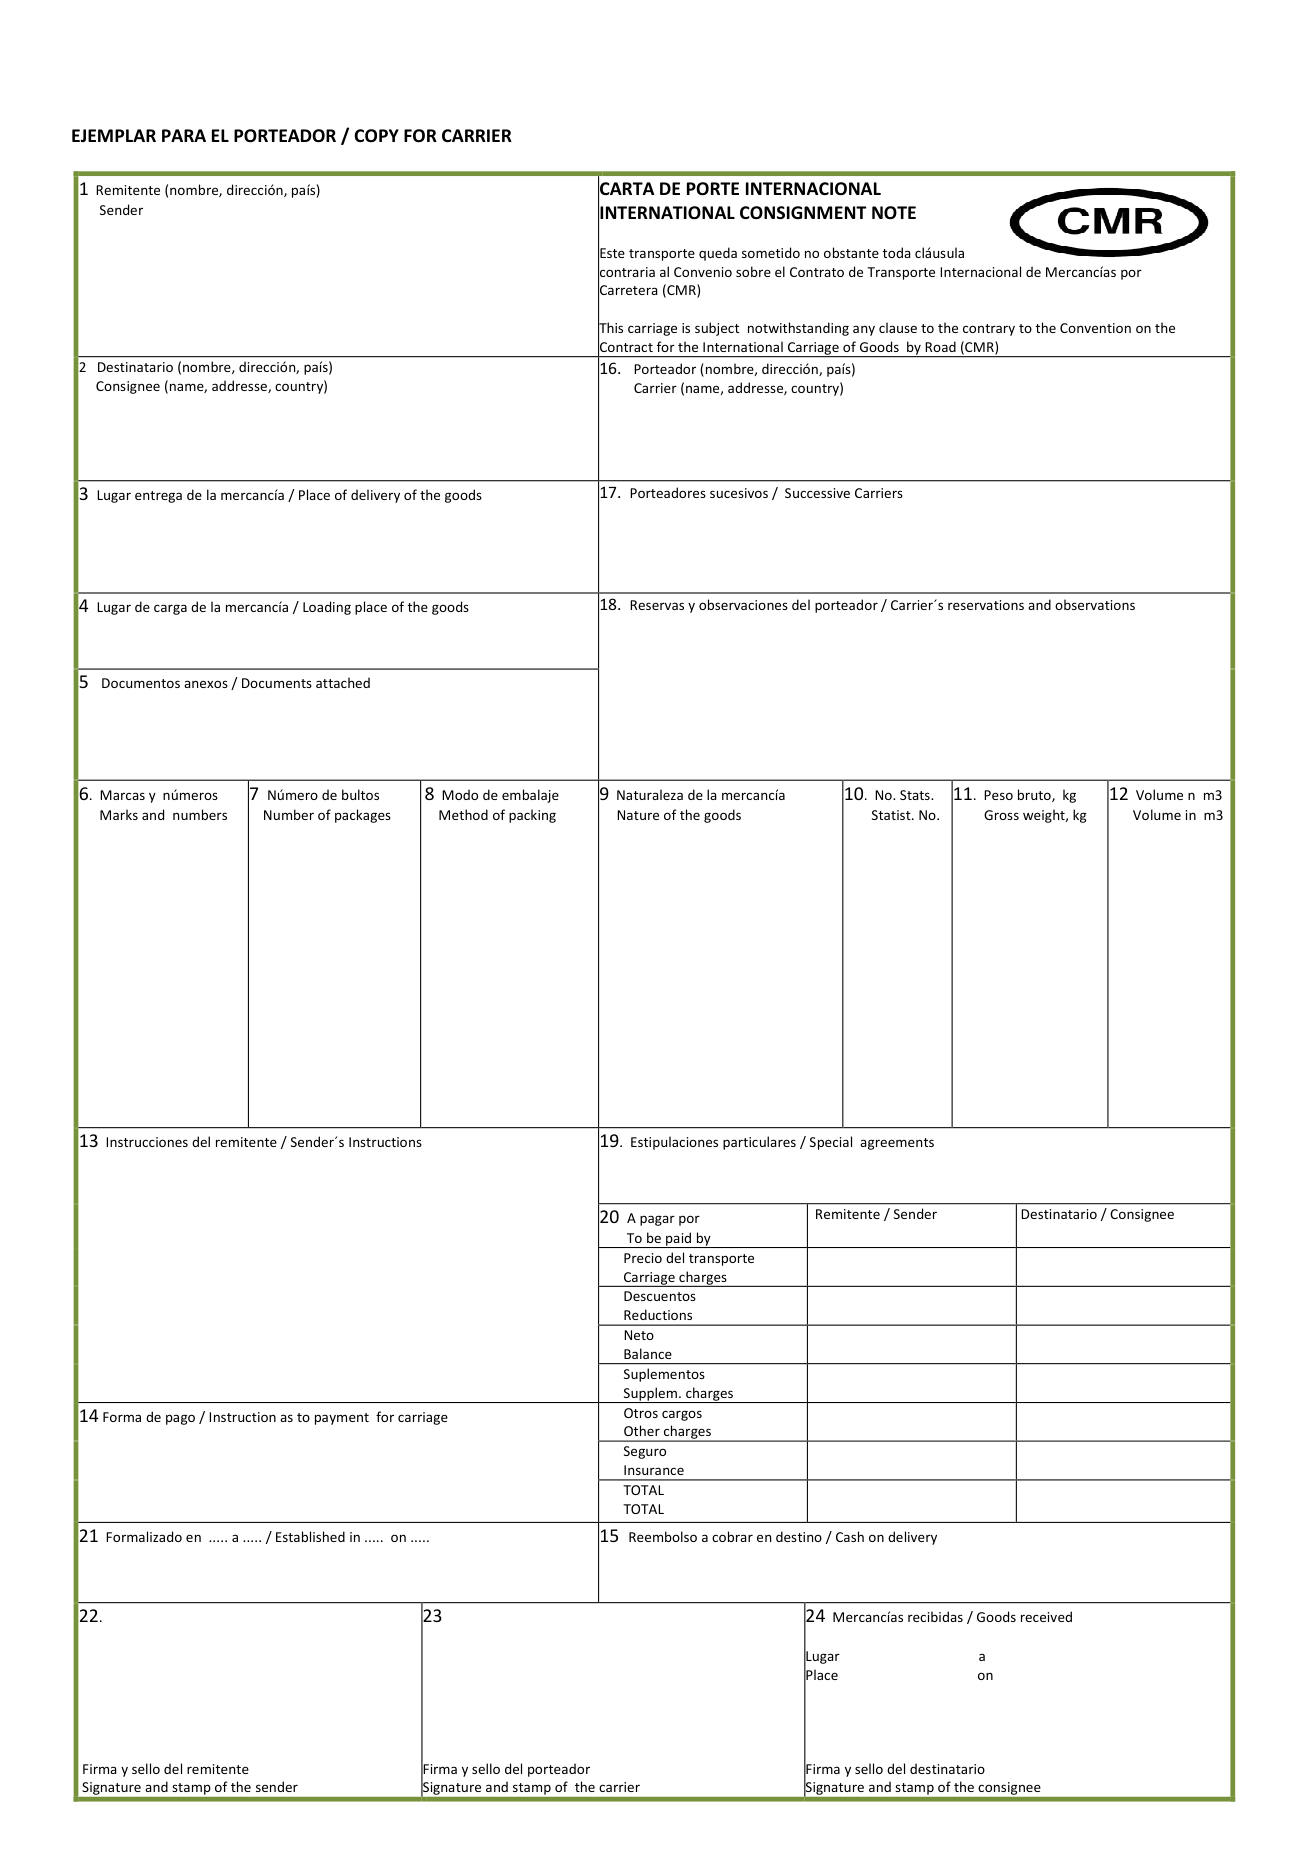
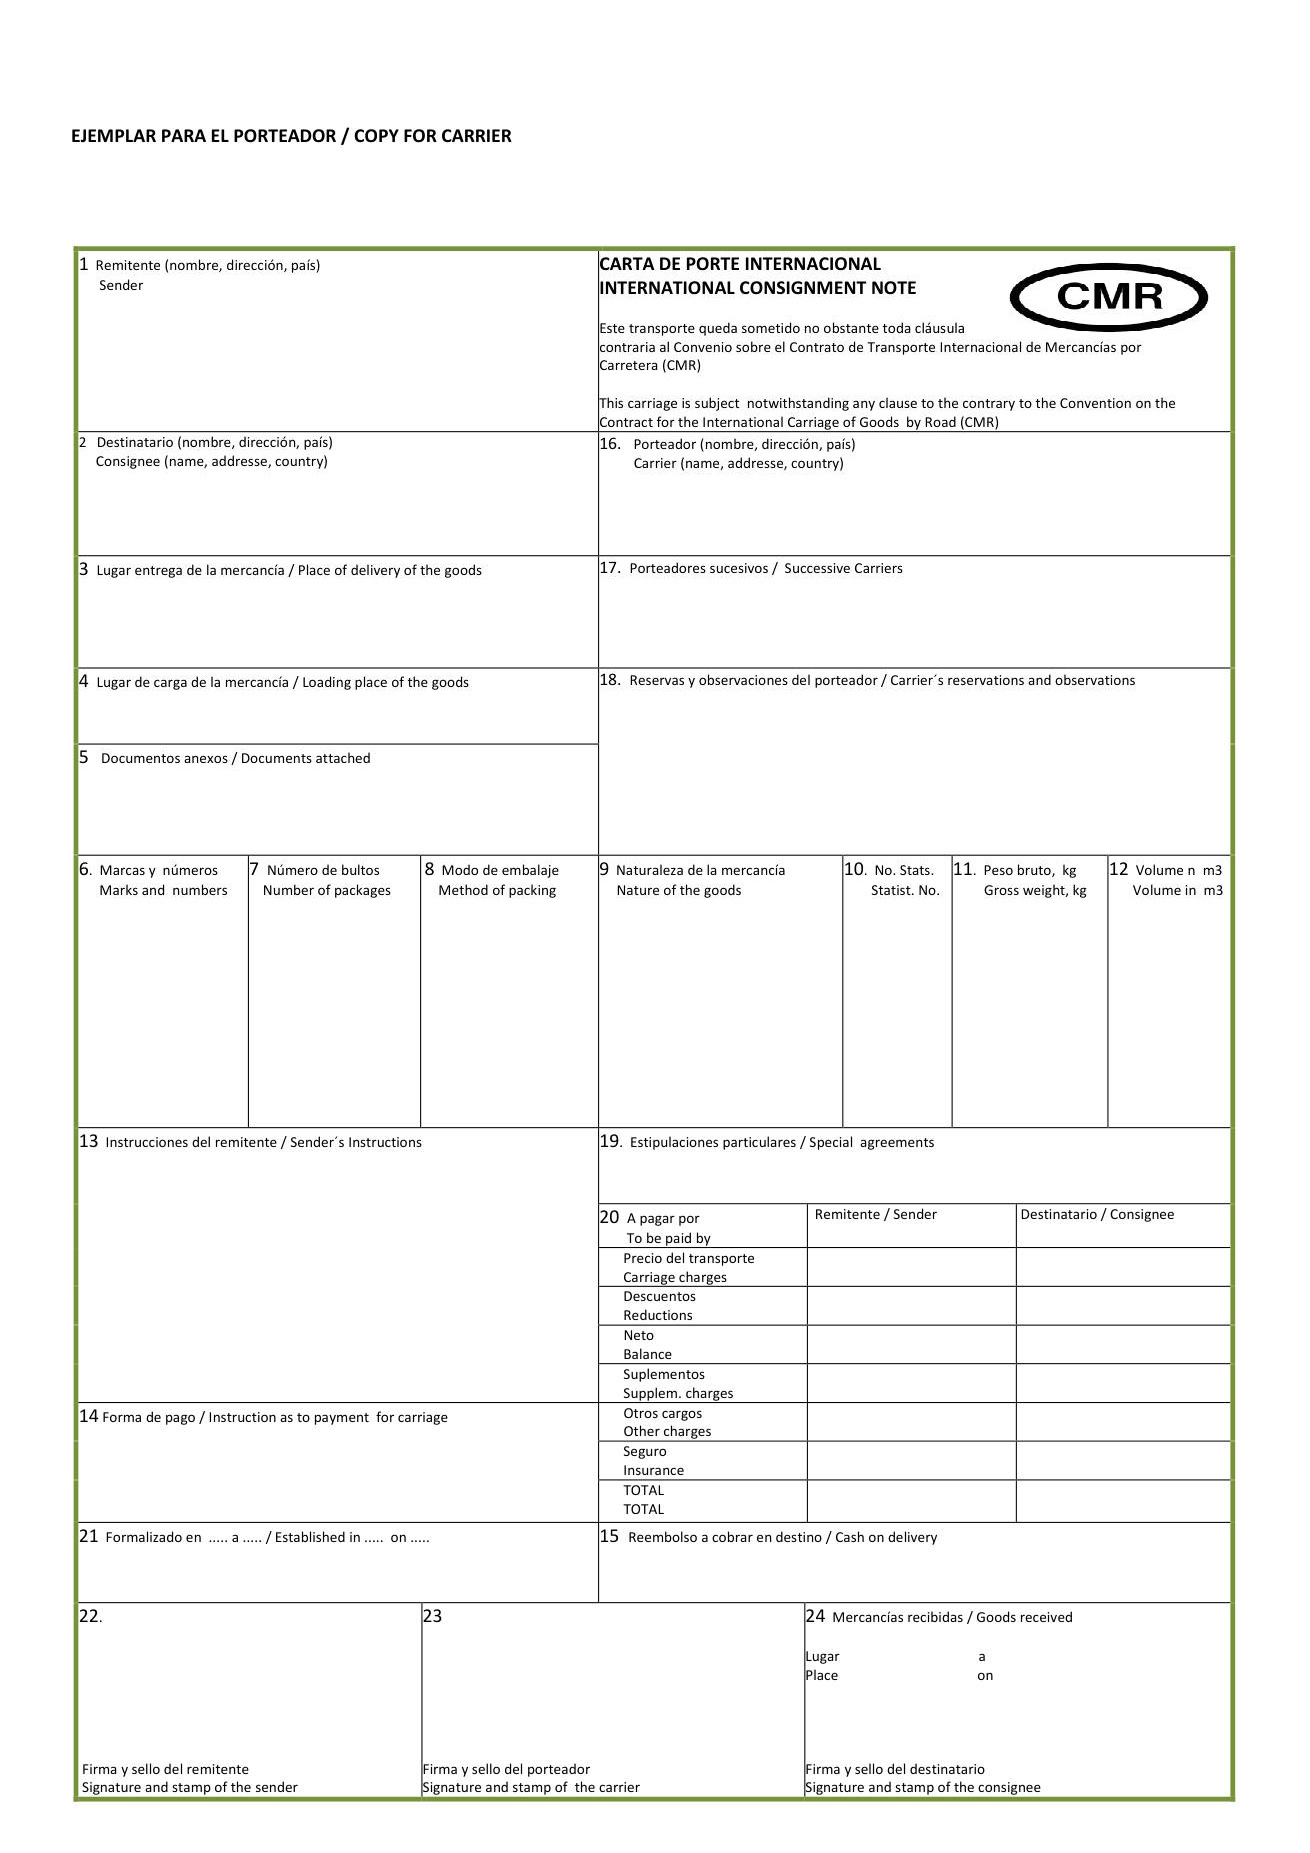
Impreso CMR: cabecera más alta con tarjeta del QR, y hojas de firmas numeradas
A las imágenes del impreso (cmr-fondo-1..4) se les quita una franja
VACÍA de 34pt del final de la fila de casillas 6-12 (solo aire, nada se
escala) y se le da a la cabecera, que pasa de ~77 a ~111pt. Ahí va la
tarjeta del QR igual que en la hoja de firmas: borde redondeado, título
«QR e-CMR / DeCA», el QR real (62pt, antes 56) o su hueco punteado, y el
rótulo debajo («Escanéalo con el móvil» / «Pendiente de asignar
transporte»). Las casillas 1-12 bajan 34pt con la imagen; de la 13 para
abajo nada se mueve, y las líneas de la fila 6-12 llevan tope con «…».

La hoja de firmas lleva pie en CADA hoja: «Hoja de firmas N de M · X
firmas registradas en total · CMR Nº …» — si alguien retirase la última
hoja, el pie de las anteriores lo delata.

Claude-Session: https://claude.ai/code/session_01S9g37D3SiP7RBw26g6KSrZ

diff --git a/lib/pdf/cmr.ts b/lib/pdf/cmr.ts
@@ -190,78 +190,82 @@ export async function cmr(d: DatosDoc): Promise<Uint8Array> {
         }
       };
 
-      // Nº de envío, en la franja blanca de arriba (no pisa el texto legal de la cabecera).
-      // El QR (o su hueco punteado) va a 56pt, el máximo que cabe: guarda ≥15pt (~5 mm)
-      // con el borde del papel y ~5pt con el marco rojo del impreso (que empieza a ~76pt),
-      // así una impresora estándar no recorta nada (usuario, 2026-11-10). El Nº, la carta
-      // y el rótulo se alinean A LA DERECHA con un hueco fijo de 14pt hasta el QR, para
-      // que el Nº nunca quede pegado al recuadro (usuario, 2026-11-11). DER = borde
-      // derecho del marco rojo (medido: 561pt): todo queda alineado con el marco.
-      const QR = 56, DER = 561, qx = DER - QR;
+      // CABECERA del impreso (usuario, 2026-11-11): a la imagen del impreso se le quitó
+      // una franja VACÍA de 34pt del final de la fila 6-12 (solo aire, nada se escala) y
+      // se le dio a la cabecera, que pasa de ~77 a ~111pt. Ahí vive la TARJETA del QR,
+      // igual que en la hoja de firmas: borde fino redondeado, título «QR e-CMR / DeCA»,
+      // el QR real (o su hueco punteado) y el rótulo debajo («Escanéalo con el móvil» /
+      // «Pendiente de asignar transporte»). Guarda 15pt (~5 mm) con el borde del papel y
+      // ~5pt con el marco rojo (que ahora empieza a ~111pt): nada se recorta al imprimir.
+      // El Nº y la carta, alineados a la derecha con 14pt de hueco fijo hasta la tarjeta.
+      // DER = borde derecho del marco rojo (medido: 561pt). Las casillas de la 1 a la 12
+      // bajan 34pt con la imagen; de la 13 para abajo nada se mueve.
+      const DER = 561;
       const esquina = !!qrImg || !conTransporte;
-      if (qrImg) {
-        pg.drawImage(qrImg, { x: qx, y: A4.h - 15 - QR, width: QR, height: QR });
-      } else if (!conTransporte) {
-        // Sin transportista o sin matrícula no hay DeCA ni QR (usuario, 2026-11-11):
-        // en su MISMO hueco, un marco punteado del tamaño del QR, y el porqué en el rótulo.
-        pg.drawRectangle({ x: qx, y: A4.h - 15 - QR, width: QR, height: QR, color: COLOR.fondo, borderColor: COLOR.grisClaro, borderWidth: 1, borderDashArray: [3, 3] });
-        t(qx + (QR - l.medida('QR', 9, true)) / 2, 46, 'QR', 9, true, COLOR.gris);
+      if (esquina) {
+        const cw = 96, ch = 91, cx = DER - cw, ct = 15, r = 8;
+        pg.drawSvgPath(
+          `M ${r} 0 H ${cw - r} Q ${cw} 0 ${cw} ${r} V ${ch - r} Q ${cw} ${ch} ${cw - r} ${ch} H ${r} Q 0 ${ch} 0 ${ch - r} V ${r} Q 0 0 ${r} 0 Z`,
+          { x: cx, y: A4.h - ct, color: COLOR.blanco, borderColor: COLOR.grisClaro, borderWidth: 1 });
+        const tTit = 'QR e-CMR / DeCA';
+        t(cx + (cw - l.medida(tTit, 6.8, true)) / 2, ct + 12, tTit, 6.8, true, COLOR.navy);
+        if (qrImg) {
+          pg.drawImage(qrImg, { x: cx + (cw - 62) / 2, y: A4.h - (ct + 16) - 62, width: 62, height: 62 });
+        } else {
+          pg.drawRectangle({ x: cx + (cw - 58) / 2, y: A4.h - (ct + 18) - 58, width: 58, height: 58, color: COLOR.fondo, borderColor: COLOR.grisClaro, borderWidth: 1, borderDashArray: [3, 3] });
+          t(cx + (cw - l.medida('QR', 9, true)) / 2, ct + 50, 'QR', 9, true, COLOR.gris);
+        }
+        const tPie = qrImg ? 'Escanéalo con el móvil' : 'Pendiente de asignar transporte';
+        t(cx + (cw - l.medida(tPie, 5.4, false)) / 2, ct + 86, tPie, 5.4, false, COLOR.gris);
       }
-      const finX = esquina ? qx - 14 : DER;
+      const finX = esquina ? DER - 96 - 14 : DER;
       const numTxt = `Nº ${e.referencia_gx ?? ''}`;
-      t(finX - (esquina ? l.medida(numTxt, 9, true) : 93), 40, numTxt, 9);
+      t(finX - (esquina ? l.medida(numTxt, 9, true) : 93), esquina ? 52 : 40, numTxt, 9);
       if (varias) {
         const cTxt = `Carta ${nc + 1} de ${cartas.length}`;
-        t(finX - (esquina ? l.medida(cTxt, 7.5, true) : 93), 51, cTxt, 7.5);
-      }
-      if (esquina) {
-        const rot = 'QR del e-CMR / DeCA', resto = qrImg ? ' · Escanéalo con el móvil' : ' · Pendiente de asignar transporte';
-        const wRot = l.medida(rot, 5.5, true);
-        const xr = finX - wRot - l.medida(resto, 5, false);
-        t(xr, 63, rot, 5.5, true);
-        t(xr + wRot, 63, resto, 5, false, COLOR.gris);
+        t(finX - (esquina ? l.medida(cTxt, 7.5, true) : 93), esquina ? 64 : 51, cTxt, 7.5);
       }
       if (logo) { const h = 22, w = h * logo.width / logo.height; pg.drawImage(logo, { x: 36, y: A4.h - 15 - h, width: w, height: h }); }
 
       // 1 Remitente
-      dato(42, 110, [
+      dato(42, 144, [
         { t: cli?.razon_social ?? '—', s: 8.8 },
         { t: `CIF ${cli?.cif ?? '—'}`, s: 7.6, b: false },
         { t: [cli?.direccion, [cli?.codigo_postal, cli?.poblacion].filter(Boolean).join(' '), cli?.pais].filter(Boolean).join(' · '), s: 7.6, b: false },
       ], 48);
       // 2 Destinatario
-      dato(42, 196, [{ t: entrega?.nombre_empresa || '—', s: 8.8, max: 1 }, { t: lineaDir(entrega), s: 7.6, b: false, max: 2 }], 56);
+      dato(42, 230, [{ t: entrega?.nombre_empresa || '—', s: 8.8, max: 1 }, { t: lineaDir(entrega), s: 7.6, b: false, max: 2 }], 56);
       // 3 Lugar de entrega
-      dato(42, 238, [{ t: lineaDir(entrega), s: 8, max: 2 }, { t: entrega?.horarios ? `Horario: ${entrega.horarios}` : '', s: 7.4, b: false, max: 1 }], 56);
+      dato(42, 272, [{ t: lineaDir(entrega), s: 8, max: 2 }, { t: entrega?.horarios ? `Horario: ${entrega.horarios}` : '', s: 7.4, b: false, max: 1 }], 56);
       // 4 Lugar y fecha de carga (caben DOS líneas antes del rótulo de la 5)
       const fCarga = e.fecha_carga_real ?? e.fecha_carga_desde;
-      dato(42, 288, [
+      dato(42, 322, [
         { t: [carga?.direccion, [carga?.codigo_postal, carga?.poblacion].filter(Boolean).join(' ')].filter(Boolean).join(', '), s: 7.8, max: 1 },
         { t: [carga?.provincia !== carga?.poblacion ? carga?.provincia : null, carga?.pais, fCarga ? fechaCorta(fCarga) : null].filter(Boolean).join(' · '), s: 7.4, b: false, max: 1 },
       ], 58);
       // 5 Documentos anexos (referencias)
       const refs = [e.referencia_cliente && `Ref. ${e.referencia_cliente}`, ...d.paradas.map((p) => p.referencia && `${p.tipo === 'carga' ? 'Carga' : 'Entrega'}: ${p.referencia}`)].filter(Boolean).join(' · ');
-      dato(42, 324, [{ t: refs || '—', s: 8, b: false }], 60);
+      dato(42, 358, [{ t: refs || '—', s: 8, b: false }], 60);
 
       // 16 Porteador: el texto fijo de Dynamo (usuario, 2026-11-11) — razón social, CIF
       // y la reserva online; en envíos MANUALES, el operador del cliente con CIF y teléfono.
       if (manual) {
         const nomLineas = l.partir(porteador.nombre, 8.4, 26 * 8.4 * 0.5, true).length;
-        dato(438, 190, [{ t: porteador.nombre, s: 8.4 }], 26);
-        dato(438, 190 + nomLineas * 10, [{ t: [porteador.cif && `CIF ${porteador.cif}`, porteador.tel && telBonito(porteador.tel)].filter(Boolean).join(' · '), s: 6.8, b: false }], 44);
+        dato(438, 224, [{ t: porteador.nombre, s: 8.4 }], 26);
+        dato(438, 224 + nomLineas * 10, [{ t: [porteador.cif && `CIF ${porteador.cif}`, porteador.tel && telBonito(porteador.tel)].filter(Boolean).join(' · '), s: 6.8, b: false }], 44);
       } else {
         // Compacto: razón social en UNA línea (7.6pt cabe entera) e interlineado de 9pt,
         // para que las 4 líneas queden dentro de la casilla sin pisar el borde de la 17.
         const nl16 = l.partir(D.razon_social, 7.6, 32 * 7.6 * 0.5, true).length;
-        dato(438, 186, [{ t: D.razon_social, s: 7.6 }], 32);
-        const y16 = 186 + nl16 * 10 - 1;
+        dato(438, 220, [{ t: D.razon_social, s: 7.6 }], 32);
+        const y16 = 220 + nl16 * 10 - 1;
         dato(438, y16, [{ t: `CIF ${D.cif}`, s: 6.8, b: false }], 40);
         dato(438, y16 + 9, [{ t: 'Reserva transporte ONLINE:', s: 6.8, b: false }], 40);
         dato(438, y16 + 18, [{ t: D.web, s: 7.2 }], 40);
       }
       // 17 Porteadores sucesivos: el transportista EFECTIVO con su CIF (DeCA: debe constar
       // frente al cargador contractual de la 16), su camión y su conductor.
-      dato(438, 236, [
+      dato(438, 270, [
         { t: manual ? '' : [d.porteador?.razon_social, d.porteador?.cif && `CIF ${d.porteador.cif}`].filter(Boolean).join(' · ') || '—', s: 7.8, max: 2 },
         { t: [e.matricula_camion && `Matr. ${e.matricula_camion}`, e.matricula_remolque && `Rem. ${e.matricula_remolque}`].filter(Boolean).join(' · '), s: 7.4, b: false },
         { t: e.conductor_nombre ? `Conductor: ${e.conductor_nombre}` : '', s: 7.4, b: false },
@@ -270,26 +274,27 @@ export async function cmr(d: DatosDoc): Promise<Uint8Array> {
       const QUIEN: Record<string, string> = { remitente: 'Remitente', transportista: 'Porteador', destinatario: 'Destinatario' };
       // La casilla 18 empieza en x≈273 (no en 438): se usa el ancho ENTERO (2026-11-11;
       // el hueco de la izquierda no estaba reservado para nada).
-      dato(276, 290, [
+      dato(276, 324, [
         ...(e.adr ? [{ t: 'MERCANCÍA ADR (peligrosa) — Acuerdo ADR', s: 7.6, c: ROJA }] : []),
         ...(d.reservas ?? []).slice(0, 3).map((r) => ({ t: `Reservas (${QUIEN[r.rol] ?? r.rol}): ${r.texto}`, s: 6.8, c: ROJA, max: 3 })),
       ], 76);
 
-      // 6-12: tabla de la mercancía
-      dato(40, 385, [{ t: e.referencia_gx ?? '—', s: 7.2 }]);
-      dato(117, 385, [{ t: e.num_bultos != null ? String(e.num_bultos) : '—', s: 8, b: e.num_bultos != null }]);
-      dato(196, 385, [{ t: e.embalaje || (e.paletizado === false ? 'Sin paletizar' : 'Palets'), s: 7.4, b: false }]);
+      // 6-12: tabla de la mercancía. La fila es 34pt más baja desde 2026-11-11 (el aire
+      // sobrante se dio a la cabecera), así que las líneas van con tope y «…» por si acaso.
+      dato(40, 419, [{ t: e.referencia_gx ?? '—', s: 7.2 }]);
+      dato(117, 419, [{ t: e.num_bultos != null ? String(e.num_bultos) : '—', s: 8, b: e.num_bultos != null }]);
+      dato(196, 419, [{ t: e.embalaje || (e.paletizado === false ? 'Sin paletizar' : 'Palets'), s: 7.4, b: false }]);
       const mercEnt = varias ? entrega?.anotaciones?.match(/MERCANCÍA:\s*(.+)$/)?.[1] ?? '' : '';
-      dato(276, 385, [
-        { t: e.descripcion_mercancia || '—', s: 8 },
+      dato(276, 419, [
+        { t: e.descripcion_mercancia || '—', s: 8, max: 3 },
         { t: e.metros_lineales != null ? `Ocupación: ${metros(e.metros_lineales)} lineales` : '', s: 7, b: false },
-        { t: mercEnt ? `Esta entrega: ${mercEnt}` : '', s: 6.8, b: false, max: 4 },
-        { t: varias ? 'Totales de la expedición; reparto por entrega indicado en la carga' : '', s: 6.4, b: false, c: COLOR.gris, max: 3 },
+        { t: mercEnt ? `Esta entrega: ${mercEnt}` : '', s: 6.8, b: false, max: 2 },
+        { t: varias ? 'Totales de la expedición; reparto por entrega indicado en la carga' : '', s: 6.4, b: false, c: COLOR.gris, max: 2 },
         { t: e.adr ? 'MERCANCÍA ADR' : '', s: 7.4, c: ROJA },
       ], 24);
-      dato(388, 385, [{ t: '—', b: false }]);
-      dato(437, 385, [{ t: e.toneladas != null ? pesoKg(Number(e.toneladas) * 1000) : '—', s: 8 }]);
-      dato(508, 385, [{ t: e.volumen_m3 != null ? `${num(e.volumen_m3)} m³` : '—', s: 8, b: e.volumen_m3 != null }]);
+      dato(388, 419, [{ t: '—', b: false }]);
+      dato(437, 419, [{ t: e.toneladas != null ? pesoKg(Number(e.toneladas) * 1000) : '—', s: 8 }]);
+      dato(508, 419, [{ t: e.volumen_m3 != null ? `${num(e.volumen_m3)} m³` : '—', s: 8, b: e.volumen_m3 != null }]);
 
       // 13 Instrucciones del remitente: otras paradas y anotaciones
       const otras = [
@@ -373,6 +378,7 @@ export async function cmr(d: DatosDoc): Promise<Uint8Array> {
     // CABECERA moderna (usuario, 2026-11-10): logo de Dynamo, título, nº en pastilla
     // morada y línea de acento; el bloque DeCA va en un panel claro con el QR dentro.
     l.nuevaPagina();
+    const pagsFirmas = [l.pag];
     const cabY = l.y;
     let xTit = l.x0;
     if (logo) {
@@ -483,6 +489,7 @@ export async function cmr(d: DatosDoc): Promise<Uint8Array> {
     // Sin tope de firmas (usuario, 2026-11-10): si no caben (más destinos, extras…),
     // siguen en otra hoja, que lleva su propia cabecera de continuación.
     const cabCont = () => {
+      pagsFirmas.push(l.pag);
       if (logo) { const h = 14, w = h * logo.width / logo.height; l.pag.drawImage(logo, { x: l.x0, y: A4.h - l.y - h, width: w, height: h }); }
       l.texto(l.x0 + (logo ? 14 * logo.width / logo.height + 10 : 0), l.y + 11, 'Hoja de firmas eCMR / DeCA (continuación)', 11, { bold: true, color: COLOR.navy });
       l.textoDer(A4.w - l.margen.der, l.y + 11, `CMR Nº ${e.referencia_gx ?? ''}`, 8.5, { bold: true, color: COLOR.morado });
@@ -529,6 +536,16 @@ export async function cmr(d: DatosDoc): Promise<Uint8Array> {
       let yR = l.y + (par ? 66 : 58);
       for (const ln of reservasF) { l.texto(tx, yR, ln, 6.8, { bold: true, color: ROJA }); yR += 9; }
       l.y += alto + 6;
+    }
+
+    // NUMERACIÓN DE LAS HOJAS DE FIRMAS (usuario, 2026-11-11): «Hoja N de M» y el total
+    // de firmas en el pie de CADA hoja — si alguien retirase la última, el propio pie de
+    // las anteriores lo delata («1 de 2» sin la 2, o menos firmas de las declaradas).
+    for (let nh = 0; nh < pagsFirmas.length; nh++) {
+      const pie = `Hoja de firmas ${nh + 1} de ${pagsFirmas.length} · ${lista.length} ${lista.length === 1 ? 'firma registrada' : 'firmas registradas'} en total · CMR Nº ${e.referencia_gx ?? ''}`;
+      const pagF = pagsFirmas[nh];
+      pagF.drawLine({ start: { x: l.x0, y: A4.h - 800 }, end: { x: A4.w - l.margen.der, y: A4.h - 800 }, color: COLOR.grisClaro, thickness: 0.8 });
+      l.texto((A4.w - l.medida(pie, 7, false)) / 2, 811, pie, 7, { color: COLOR.gris, pag: pagF });
     }
   }
 
